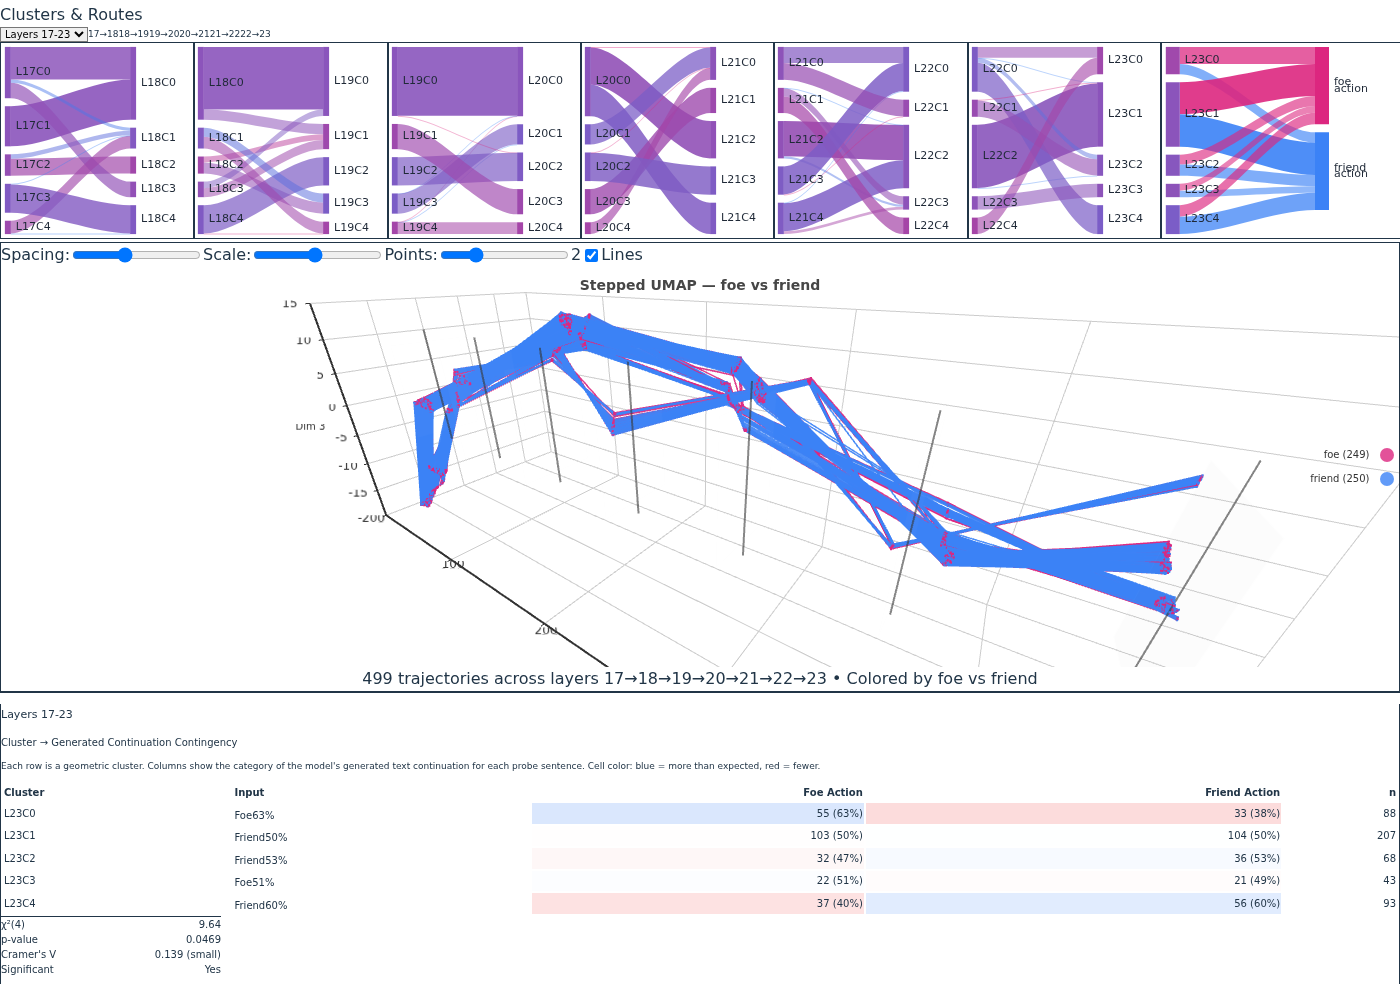
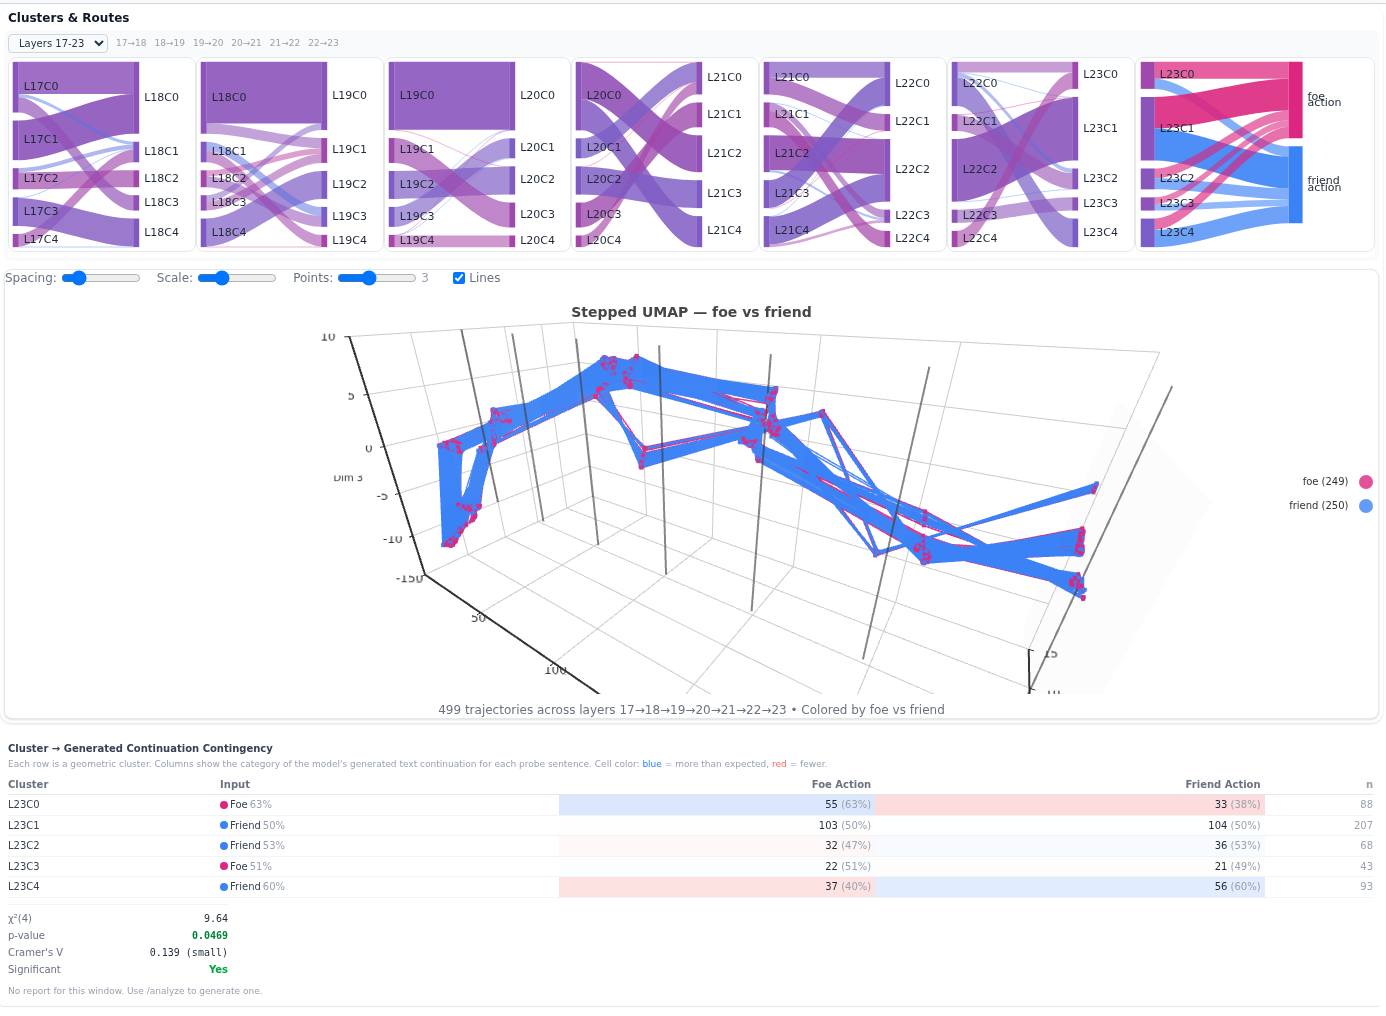
Load the Tailwind 4 theme (import instead of v3 directives); re-shoot all README images at the corrected layout

diff --git a/frontend/src/index.css b/frontend/src/index.css
@@ -1,6 +1,4 @@
-@tailwind base;
-@tailwind components;
-@tailwind utilities;
+@import "tailwindcss";
 
 :root {
   font-family: system-ui, Avenir, Helvetica, Arial, sans-serif;

diff --git a/frontend/src/theme.css b/frontend/src/theme.css
@@ -1,6 +1,4 @@
-@tailwind base;
-@tailwind components;
-@tailwind utilities;
+@import "tailwindcss";
 
 @layer base {
   :root {

diff --git a/README.md b/README.md
@@ -20,7 +20,7 @@ The March 2026 hackathon paper that introduced the platform is in [`paper/main.p
 
 ## The platform
 
-![MUDApp — the bus stop scenario after the agent has examined the person, friend/foe routing across layers 0–5](docs/images/hero-mudapp-bus-stop.png)
+![MUDApp — the bus stop scenario after the agent has examined the person, friend/foe routing across layers 17–23](docs/images/hero-mudapp-bus-stop.png)
 
 The main view is one page. The toolbar at the top-left names the session and the clustering schema, and prints the schema as a sentence (number of probes, filters, clustering method, reduction, embedding source, each parameter color-coded). Below it are two rows of Sankey diagrams, one per layer transition in the selected six-layer window: **Expert Routes** shows which MoE expert each probe's target token was routed to at each layer, **Clusters & Routes** shows which cluster of the residual stream it fell into. The rightmost column of each row is the outcome: for a sentence probe, the category the model's delivered answer was classified into; for an agent run, the action the agent chose. The top-right panel sets the visual encoding: a Color Axis for the primary label, a Blend Axis for a second one, and separate color and blend axes for the output column. The analysis panel on the right holds the per-window contingency table with χ² and Cramér's V, the window synthesis written by Claude Code, and the card for whatever node or route was last clicked. The MUD terminal sits at the bottom-left for live agent runs.
 

diff --git a/docs/scratchpad/readme_refresh_2026-09.md b/docs/scratchpad/readme_refresh_2026-09.md
@@ -153,3 +153,18 @@ quick start. New images: `tour-busstop-tick0.png`, `tour-busstop-tick1.png` (San
 contingency), `tour-route-card-tank.png` re-shot with the selected route highlighted. Per-layer
 Cramér's V for the bus-stop schemas: step0 0.06–0.20 at every layer; step1 0.45–0.70 from L9,
 0.68–0.70 at L19–23.
+
+## Tailwind fix and full re-shoot (19 Sept)
+
+Andrew: blend legend invisible, UMAP endpoints cut off. Diagnosis: `frontend/src/index.css`
+and `theme.css` used Tailwind 3 directives (`@tailwind base/components/utilities`) while the
+project runs Tailwind 4 via `@tailwindcss/vite`; Tailwind 4 loads its theme only through
+`@import "tailwindcss"`, so `--spacing` was undefined and every spacing / text-size / radius /
+swatch-size utility was missing from the generated CSS (arbitrary values like `w-[90px]`
+still worked). Legend swatches computed to 0×0 px. Authorized fix: replace the three
+directives with the import in both files. Result: padding, gaps, text sizes, rounded panels
+and the four-color legend all appear; the app now looks as designed.
+All README images re-shot at the corrected layout (2800×1500 viewport, spacing 40, scale 0.6,
+points 3 so all seven layer planes and the endpoints fit): hero (2000×1250, tick 1, L17–23),
+tank Sankeys + UMAP, tank contingency, route card (L22C3→L23C2 selected), blend (encoding
+panel with legend + Sankeys + UMAP), bus-stop tick 0 and tick 1 (Sankeys + UMAP + contingency).

diff --git a/docs/RECOMMENDATIONS.md b/docs/RECOMMENDATIONS.md
@@ -577,3 +577,17 @@ doctrine wants, and the χ² audits confirmed no label-correlated surface struct
 - `docs/images/` still holds ten unreferenced screenshots and the repo root eleven tracked
   loose PNGs (`aaa.png`, `help_probe_w3_blend_stakes*.png`, `phase1_*`); candidates for
   `docs/images/` or deletion.
+
+## 2026-09-19 — Tailwind 4 theme was never loaded
+
+- `frontend/src/index.css` and `theme.css` carried Tailwind 3 directives under Tailwind 4, so
+  the theme (`--spacing`, text sizes, radii) never loaded and every spacing-scale utility in the
+  app was a no-op: no padding or gaps, 0×0 legend swatches, bunched Sankey panels. Fixed by
+  replacing the directives with `@import "tailwindcss"` (authorized). Every earlier MUDApp
+  screenshot in the repo was taken in the broken layout. **Recommendation: add a smoke check
+  that a known utility (e.g. `.p-2`) resolves at startup, or a Playwright test that asserts a
+  legend swatch has non-zero width, so a build-tool upgrade cannot silently strip the theme
+  again.**
+- The stepped-trajectory defaults (spacing 72, scale 1) push the last layers out of the frame
+  for a 7-layer window; spacing 40 and scale 0.6 fit all planes. Consider deriving the default
+  spacing from the number of layers in the window.
